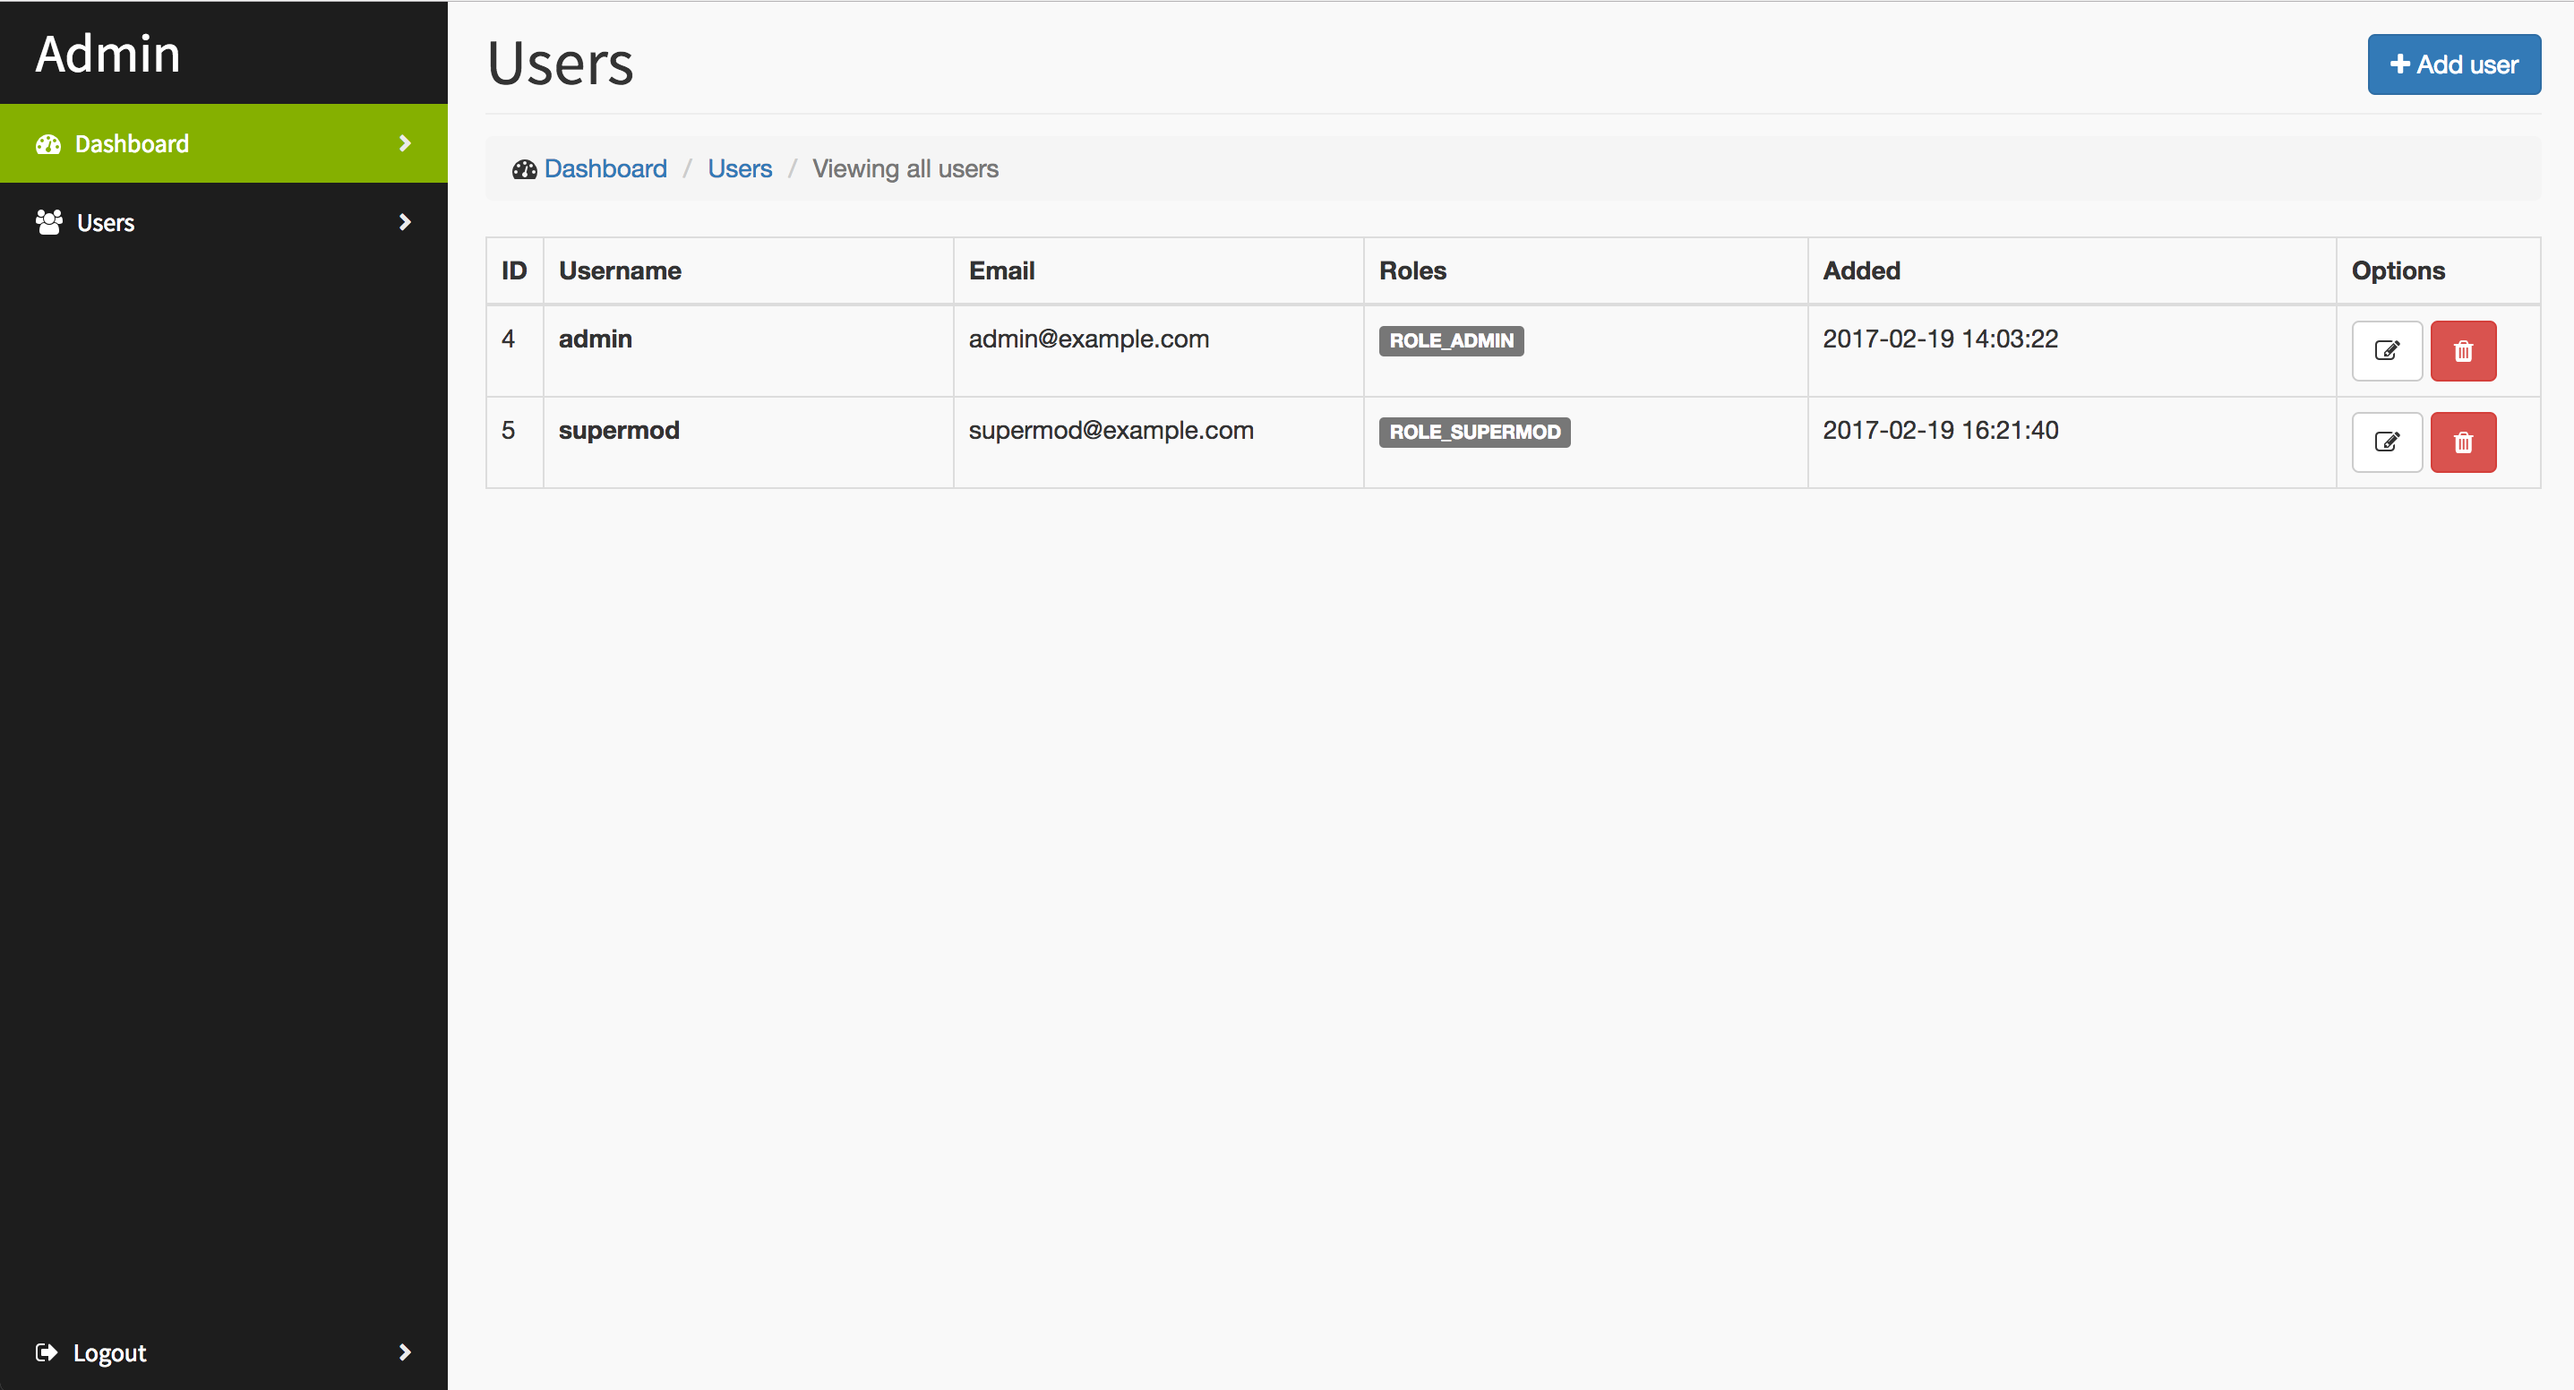
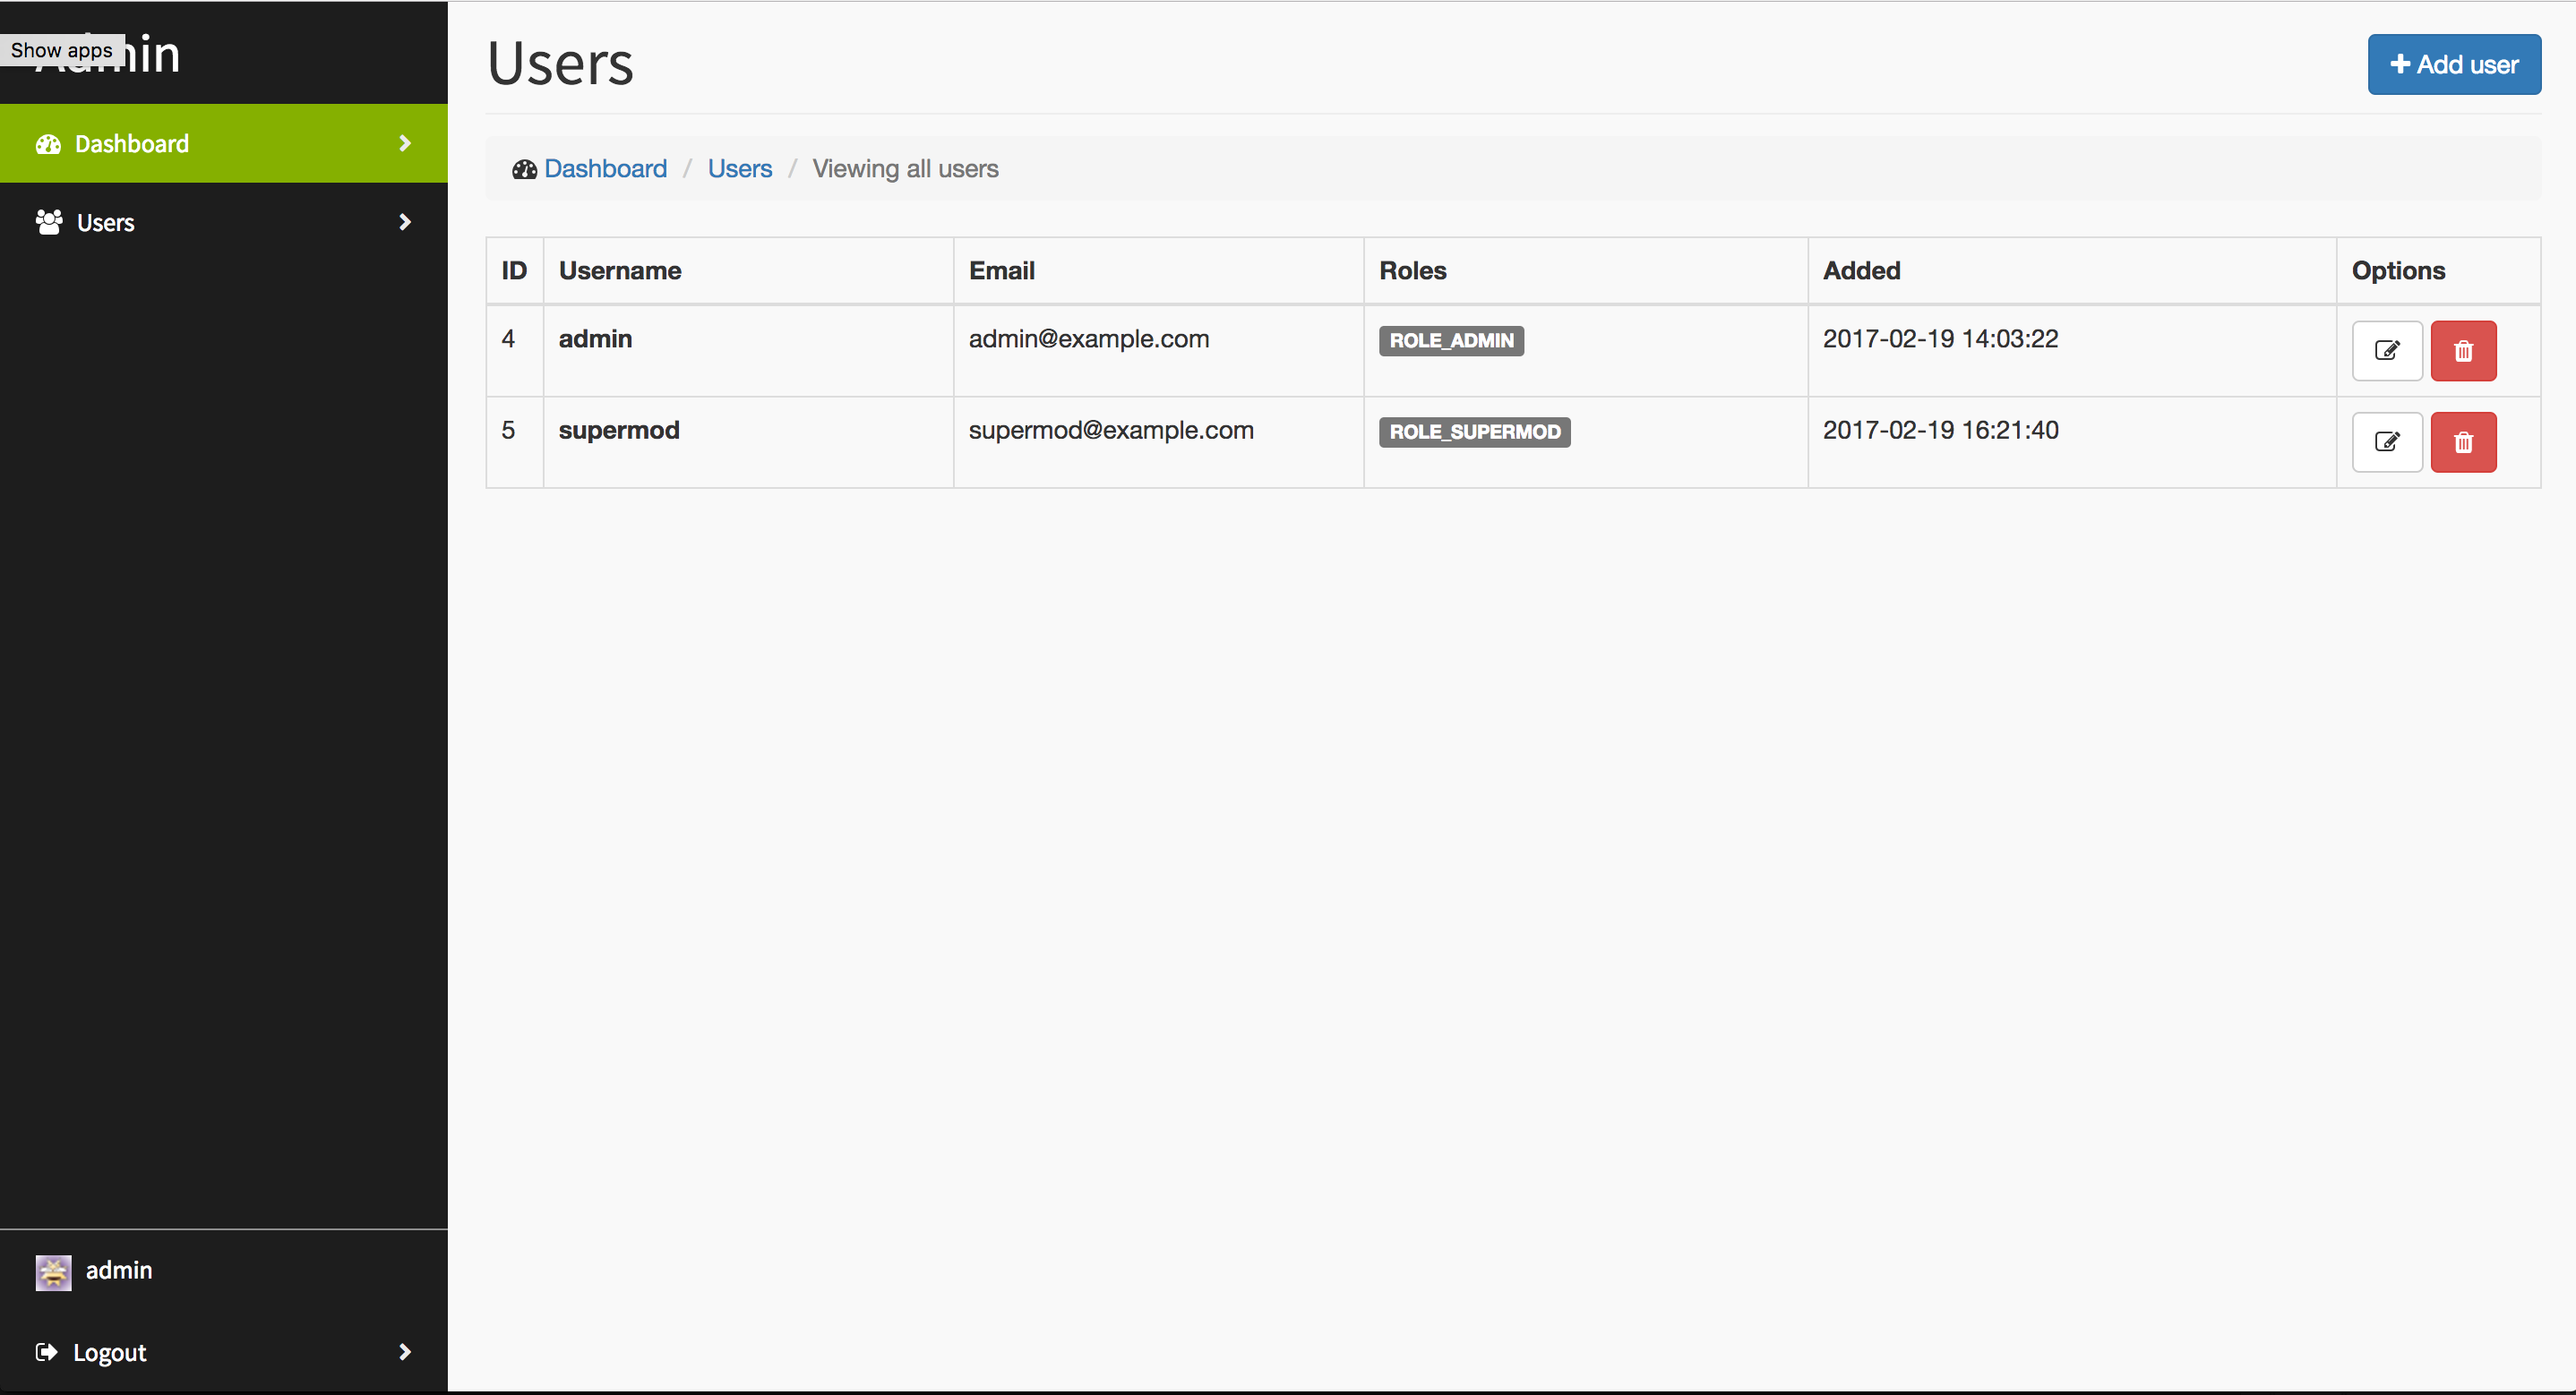
Add currently logged in user info to navbar

diff --git a/app/app.php b/app/app.php
@@ -25,6 +25,12 @@ $app->before(function (Request $request) use ($app) {
     else if ($locale = $app['session']->get('locale')) {
         $app['locale'] = $locale;
     }
+
+    $user = $app['security.token_storage']->getToken();
+    $app['userInfo'] = array();
+    if(!empty($user)) {
+        $app['userInfo'] = $app['db']->fetchAssoc("SELECT id, username, email, roles FROM users WHERE username = ?", array($user->getUsername()));
+    }
 });
 
 // do some security stuff
@@ -53,6 +59,13 @@ $app->register(new Silex\Provider\FormServiceProvider());
 $app->register(new Silex\Provider\TwigServiceProvider(), array(
     'twig.path' => __DIR__.'/../views',
 ));
+$app['twig'] = $app->extend('twig', function ($twig, $app) {
+    $filter = new \Twig_SimpleFilter('md5', function ($string) {
+        return md5($string);
+    });
+    $twig->addFilter($filter);
+    return $twig;
+});
 
 // db
 $dbOptions = array(
